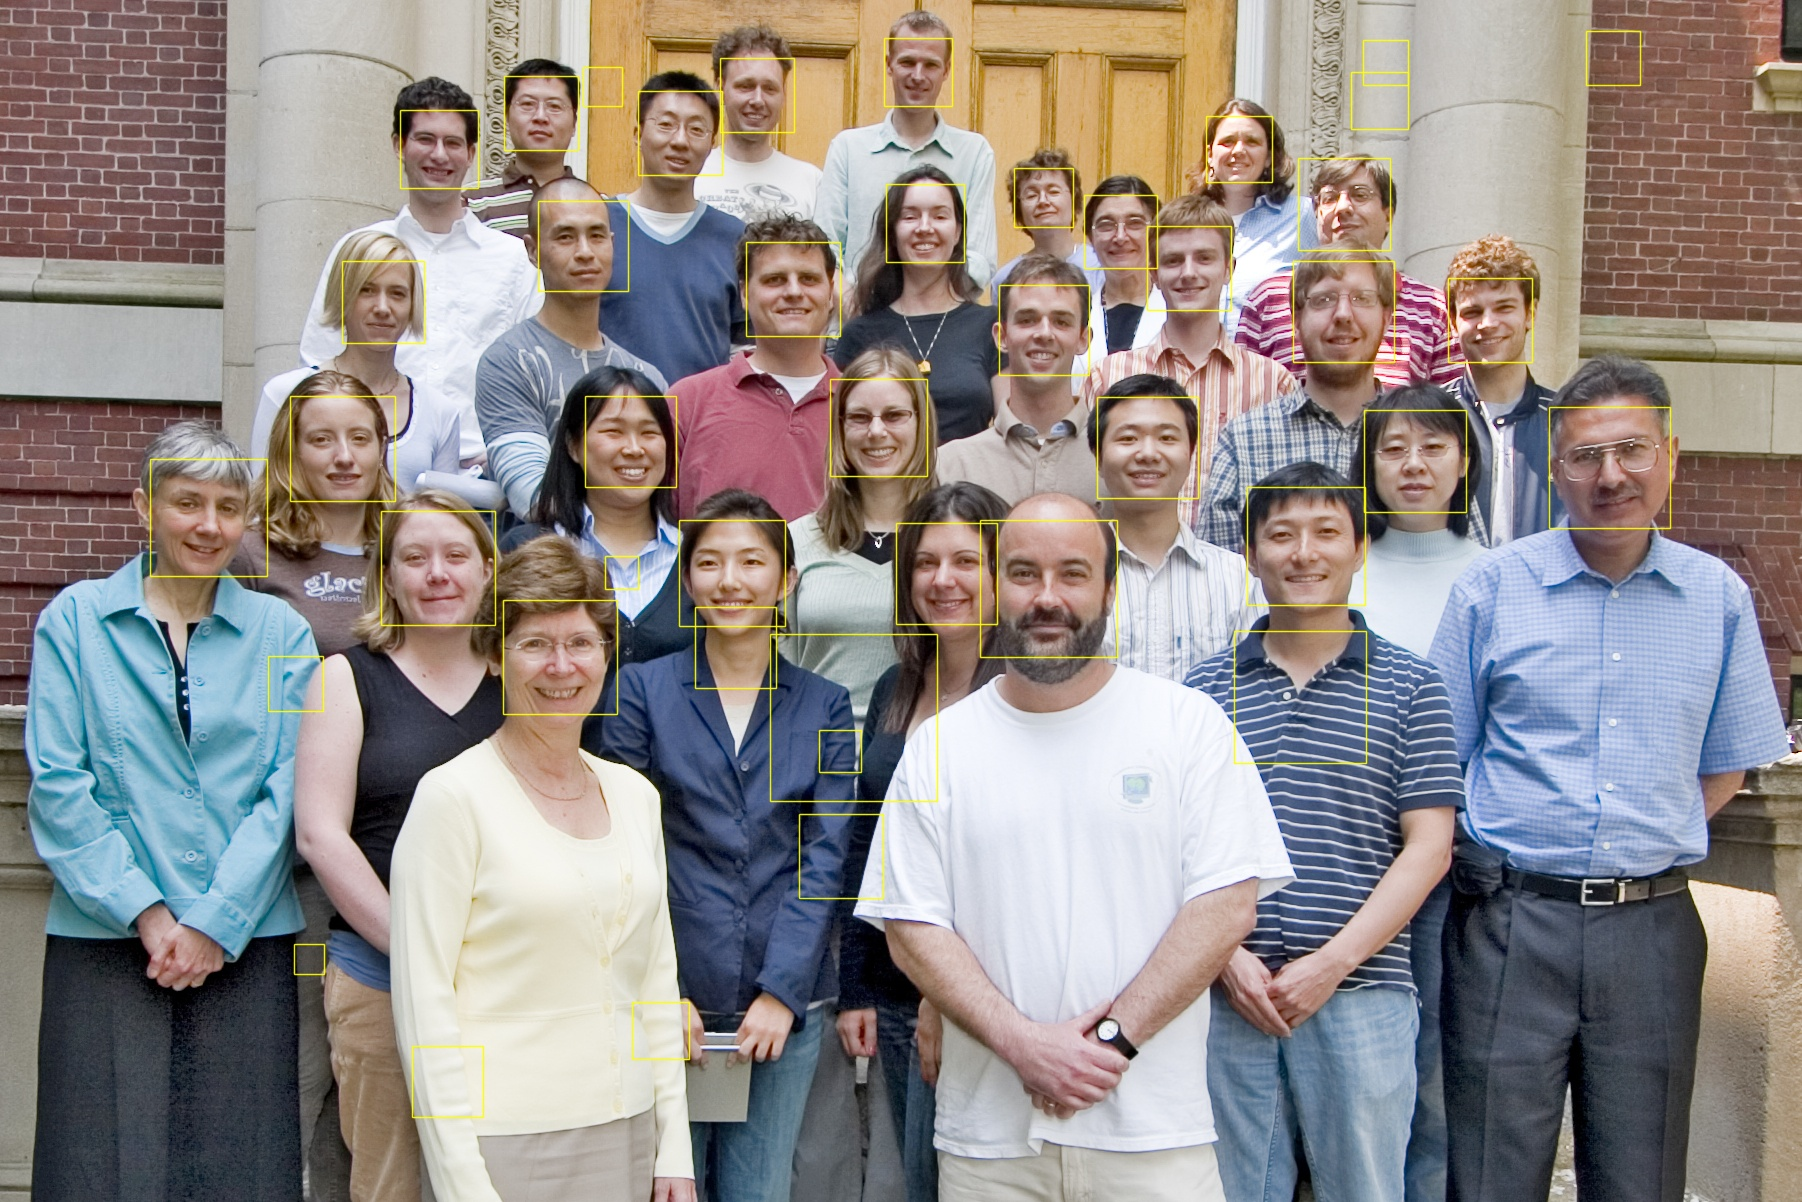
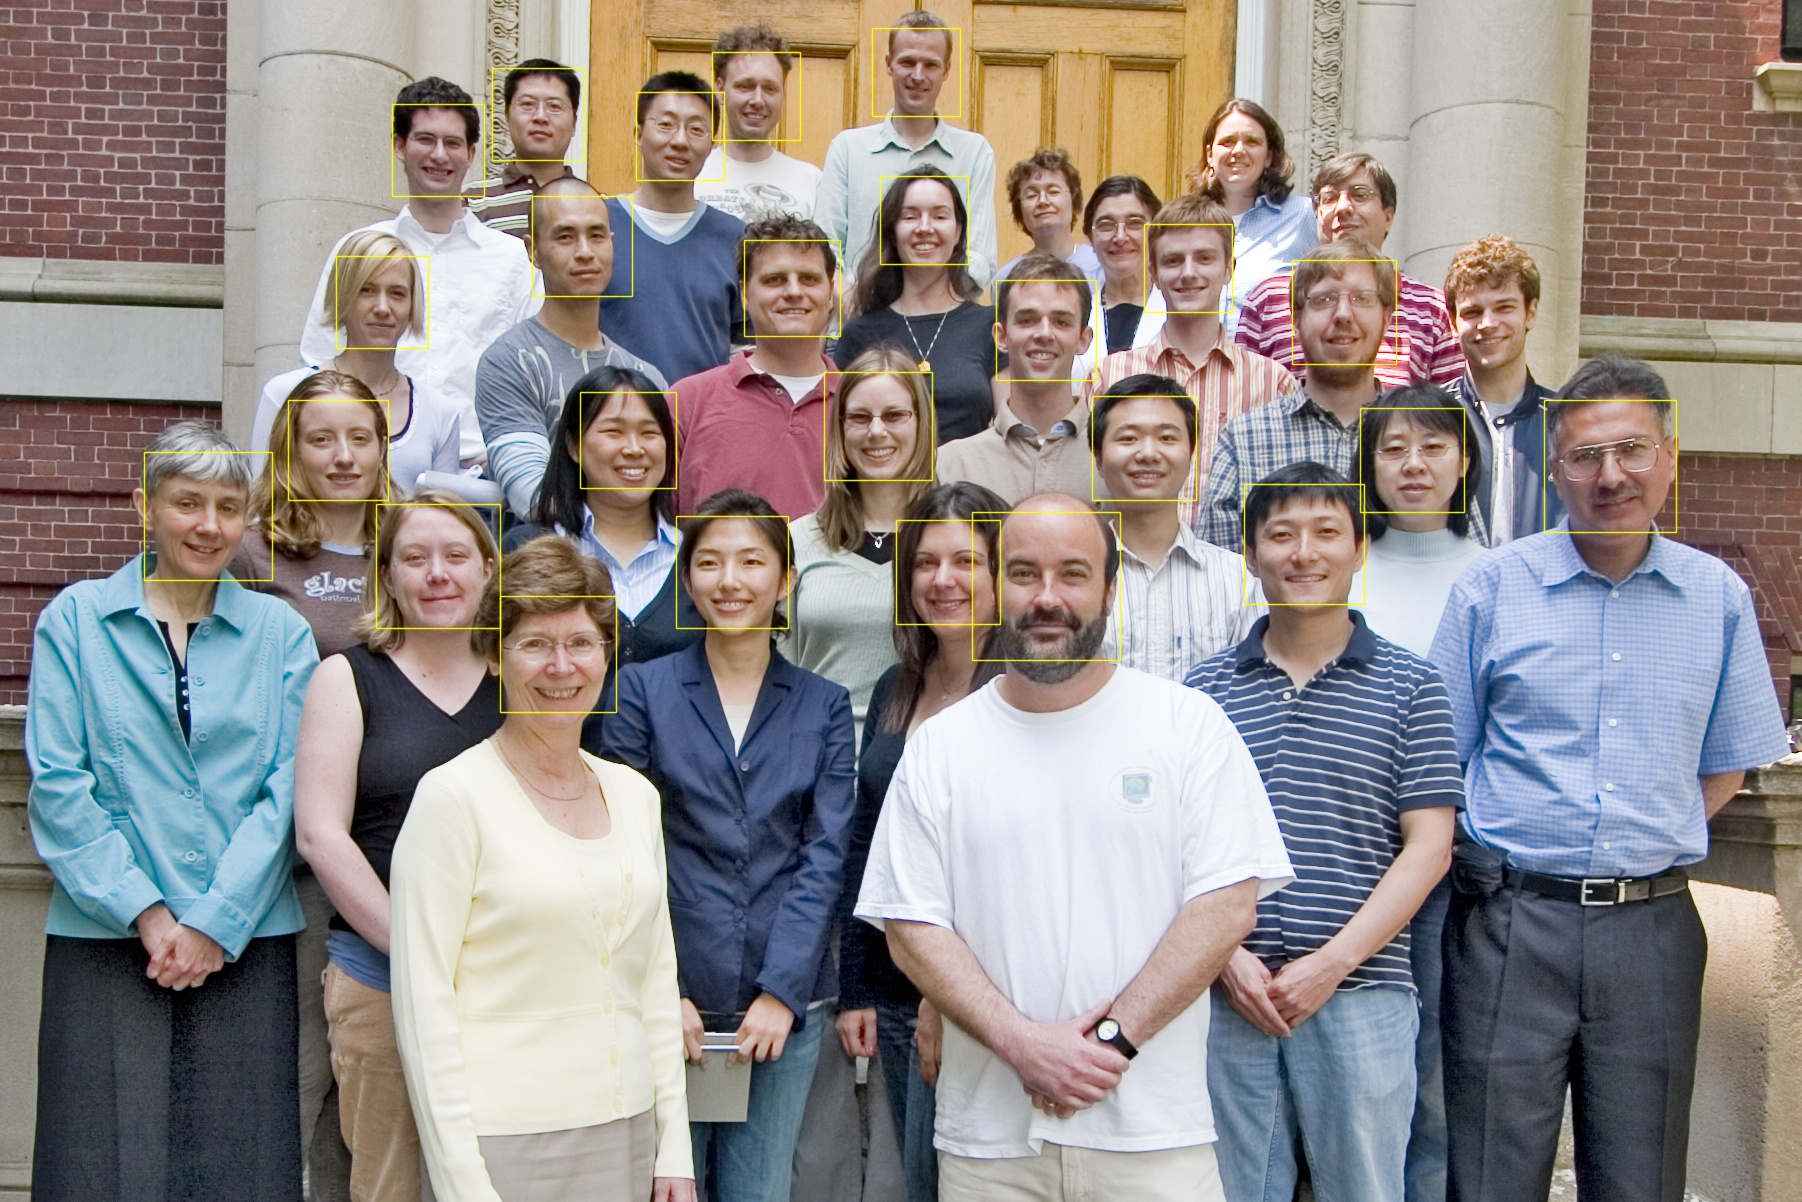
Podpiąłem FaceDetector do testowego środowiska w klasie Main. Pozwoliłem sobie duuuużo poprawić, bo dodając to co Michał mi zostawiłeś faceDetect zajmował 700ms. Zmieniłem trochę podejście, wyciągnąłem tworzenie obiektów do metody init(), ale to specjalnie nie pomogło, więc zmieniłem parametry w met

diff --git a/src/FaceDetecting/FaceDetector.java b/src/FaceDetecting/FaceDetector.java
@@ -2,12 +2,16 @@ package FaceDetecting;
 
 import static com.googlecode.javacv.cpp.opencv_core.CV_AA;
 import static com.googlecode.javacv.cpp.opencv_core.IPL_DEPTH_8U;
+import static com.googlecode.javacv.cpp.opencv_core.cvClearMemStorage;
 import static com.googlecode.javacv.cpp.opencv_core.cvGetSeqElem;
 import static com.googlecode.javacv.cpp.opencv_core.cvLoad;
 import static com.googlecode.javacv.cpp.opencv_core.cvPoint;
 import static com.googlecode.javacv.cpp.opencv_core.cvRectangle;
 import static com.googlecode.javacv.cpp.opencv_imgproc.CV_BGR2GRAY;
+import static com.googlecode.javacv.cpp.opencv_imgproc.CV_INTER_AREA;
 import static com.googlecode.javacv.cpp.opencv_imgproc.cvCvtColor;
+import static com.googlecode.javacv.cpp.opencv_imgproc.cvResize;
+import static com.googlecode.javacv.cpp.opencv_objdetect.CV_HAAR_DO_CANNY_PRUNING;
 import static com.googlecode.javacv.cpp.opencv_objdetect.cvHaarDetectObjects;
 import gui.FrameObservable;
 import gui.FrameObserver;
@@ -18,6 +22,7 @@ import java.util.List;
 import FaceDetecting.FrameObservableWithCoords;
 import FaceDetecting.FrameObserverWithCoords;
 
+import com.googlecode.javacpp.Loader;
 import com.googlecode.javacv.cpp.opencv_core.CvMemStorage;
 import com.googlecode.javacv.cpp.opencv_core.CvRect;
 import com.googlecode.javacv.cpp.opencv_core.CvScalar;
@@ -56,7 +61,21 @@ public class FaceDetector implements FrameObserver, FrameObservableWithCoords,
 	 * xml file with info about face recognition
 	 */
 	private static final String CASCADE_FILE = "haarcascade_frontalface_alt.xml";
-
+	private opencv_objdetect.CvHaarClassifierCascade classifier;
+	private IplImage grayImage;
+	private IplImage smallImage;
+	private CvMemStorage storage;
+	
+	void init(int imageWidth, int imageHeight) {
+		// Preload the opencv_objdetect module to work around a known bug.
+        Loader.load(opencv_objdetect.class);
+        
+		classifier = new opencv_objdetect.CvHaarClassifierCascade(cvLoad(CASCADE_FILE));
+		grayImage = IplImage.create(imageWidth, imageHeight, IPL_DEPTH_8U, 1);
+		smallImage = IplImage.create(imageWidth/4, imageHeight/4, IPL_DEPTH_8U, 1);
+		storage = CvMemStorage.create();
+	}
+	
 	/**
 	 * Receives frame and uses face recognition algorithms to set coordinates of
 	 * faces
@@ -64,30 +83,25 @@ public class FaceDetector implements FrameObserver, FrameObservableWithCoords,
 	 * @param originalImage
 	 * @return list of integer arrays, with coordinates and size of faces
 	 */
-	public static List<Integer[]> detect(IplImage originalImage) {
+	public List<Integer[]> detect(IplImage originalImage) {
 
 		List<Integer[]> facesList = new ArrayList<Integer[]>();
-
-		IplImage grayImage = IplImage.create(originalImage.width(),
-				originalImage.height(), IPL_DEPTH_8U, 1);
-
+		
+		cvClearMemStorage(storage);
 		cvCvtColor(originalImage, grayImage, CV_BGR2GRAY);
-
-		CvMemStorage storage = CvMemStorage.create();
-		opencv_objdetect.CvHaarClassifierCascade cascade = new opencv_objdetect.CvHaarClassifierCascade(
-				cvLoad(CASCADE_FILE));
-
-		CvSeq faces = cvHaarDetectObjects(grayImage, cascade, storage, 1.1, 1,
-				0);
+		cvResize(grayImage, smallImage, CV_INTER_AREA);
+		// Search faces on image 4 times smaller ...
+		CvSeq faces = cvHaarDetectObjects(smallImage, classifier, storage, 1.1, 3, CV_HAAR_DO_CANNY_PRUNING);
 
 		Integer[] coordinates = null;
 		for (int i = 0; i < faces.total(); i++) {
 			CvRect r = new CvRect(cvGetSeqElem(faces, i));
 			coordinates = new Integer[4];
-			coordinates[0] = r.x();
-			coordinates[1] = r.y();
-			coordinates[2] = r.height();
-			coordinates[3] = r.width();
+			// ... so coordinates needs multiplying by 4
+			coordinates[0] = r.x() * 4;
+			coordinates[1] = r.y() * 4;
+			coordinates[2] = r.height() * 4;
+			coordinates[3] = r.width() * 4;
 			facesList.add(coordinates);
 		}
 		return facesList;
@@ -98,7 +112,8 @@ public class FaceDetector implements FrameObserver, FrameObservableWithCoords,
 	 * 
 	 * @param observable
 	 */
-	public FaceDetector(FrameObservable observable) {
+	public FaceDetector(FrameObservable observable, int frameWidth, int frameHeight) {
+		init(frameWidth, frameHeight);
 		observable.addListener(this);
 	}
 
@@ -108,10 +123,10 @@ public class FaceDetector implements FrameObserver, FrameObservableWithCoords,
 	 * @see gui.FrameObserver
 	 */
 	public void update(IplImage frame) {
-		List<Integer[]> coords = FaceDetector.detect(frame);
+		List<Integer[]> coords = detect(frame);
+		addRectangles(coords);
 		this.notifyListeners(frame, coords);
 		this.frame = frame;
-		addRectangles(coords);
 		this.notifyListeners();
 	}
 

diff --git a/src/gui/Main.java b/src/gui/Main.java
@@ -1,5 +1,12 @@
 package gui;
 
+import java.util.Arrays;
+import java.util.List;
+
+import FaceDetecting.FaceDetector;
+import FaceDetecting.FrameObservableWithCoords;
+import FaceDetecting.FrameObserverWithCoords;
+
 import com.googlecode.javacv.CanvasFrame;
 import com.googlecode.javacv.FrameGrabber.Exception;
 import com.googlecode.javacv.cpp.opencv_core.IplImage;
@@ -23,22 +30,26 @@ class FrameCaptureTask implements Runnable {
 }
 
 // Przyjmijmy na razie, że to jest klasa, z której odpalana jest aplikacja. 
-public class Main implements FrameObserver{
+public class Main implements FrameObserverWithCoords {
+	CanvasFrame canvasFrame = new CanvasFrame("InteligentEye Test CameraView");
 	Camera cam;
-	CanvasFrame canvasFrame = new CanvasFrame("Some Title");
-	long currentMilis = 0;
-	long oldMilis = 0;
+	FrameObservableWithCoords faceDetector;
 	
 	public static void main(String args[]) throws Exception {
-		Main main = new Main(new Camera(0));
+		Camera c = new Camera(0);
+		Main main = new Main(c, new FaceDetector(c, c.imageWidth, c.imageHeight));
 		main.test();
 	}
 	
-	public Main(Camera cam) throws Exception {
+	public Main(Camera cam, FrameObservableWithCoords observable) throws Exception {
 		this.cam = cam;
-		this.cam.addListener(this);
+		this.faceDetector = observable;
 		
-		canvasFrame.setCanvasSize(400, 400);
+		
+		System.out.println("CanvasFrame width = " + cam.imageWidth + ", height = " + cam.imageHeight);
+		canvasFrame.setCanvasSize(cam.imageWidth, cam.imageHeight);
+		
+		faceDetector.addListener(this);
 	}
 	
 	void test() {
@@ -46,12 +57,18 @@ public class Main implements FrameObserver{
 		new Thread(fct).start();
 	}
 	
+	long old;
+	long curr;
+	
 	@Override
-	public void update(IplImage frame) {
-		oldMilis = currentMilis;
-	    currentMilis = System.currentTimeMillis();
-		System.out.println("Got frame! (it takes " + (currentMilis - oldMilis) + ")");
-		
+	public void update(IplImage frame, List<Integer[]> coords) {
+		old = curr;
+		curr = System.currentTimeMillis();
 		canvasFrame.showImage(frame);
+		System.out.println("Frame time equals " + (curr - old) + " ms");
+		System.out.print("Faces coordinates: ");
+		for(Integer[] face : coords) {
+			System.out.println(Arrays.toString(face));
+		}
 	}
 }

diff --git a/src/gui/Camera.java b/src/gui/Camera.java
@@ -8,6 +8,9 @@ import com.googlecode.javacv.OpenCVFrameGrabber;
 import com.googlecode.javacv.cpp.opencv_core.IplImage;
 
 public class Camera implements FrameObservable {
+	public int imageWidth;
+	public int imageHeight;
+	
 	FrameGrabber grabber;
 	volatile boolean grabberOn;
 	IplImage currentFrame;
@@ -16,6 +19,16 @@ public class Camera implements FrameObservable {
 	
 	public Camera(int cameraIdx) throws Exception {
 		grabber = new OpenCVFrameGrabber(cameraIdx);
+		setupCameraProperties();
+	}
+	
+	private void setupCameraProperties() throws Exception {
+		// To get camera properties we need only one frame, after that we turn off grabbing.
+		grabber.start();
+			IplImage frame = grabber.grab();
+			imageWidth = frame.width();
+			imageHeight = frame.height();
+		grabber.stop();
 	}
 	
 	public void startCapturing() throws Exception {
@@ -23,7 +36,8 @@ public class Camera implements FrameObservable {
 		grabberOn = true;
 		
 		while(grabberOn) {
-			currentFrame = grabber.grab(); // grabber.grab() nie zwraca dwukrotnie tej samej klatki tylko czeka na nową (blokuje się).
+			// grabber.grab() gets the frame and waits for the next one. It's blocking operation.
+			currentFrame = grabber.grab();
 			notifyListeners();
 		}
 	}

diff --git a/src/FaceDetecting/Tester.java b/src/FaceDetecting/Tester.java
@@ -31,7 +31,7 @@ public class Tester implements FrameObservable, FrameObserver {
 	 */
 	public static void main(String[] args) {
 		Tester t = new Tester();
-		FaceDetector f = new FaceDetector(t);
+		FaceDetector f = new FaceDetector(t, 1802, 1202);
 		f.addListener(t);
 		t.notifyListeners();
 	}

diff --git a/src/database/PersonDAO.java b/src/database/PersonDAO.java
@@ -42,6 +42,8 @@ public class PersonDAO {
 			person.setCountry(rs.getString("country"));
 		}
 		
+		conn.close();
+		
 		return person;
 		
 	}
